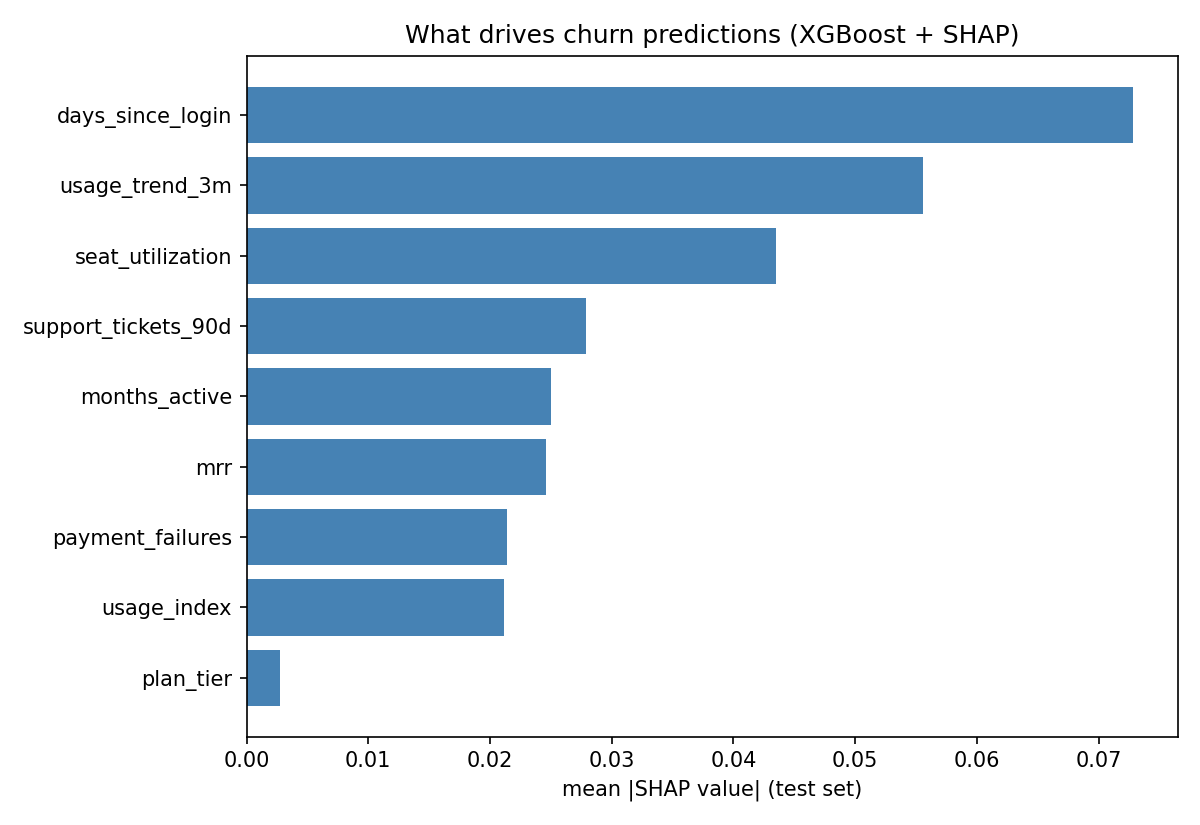
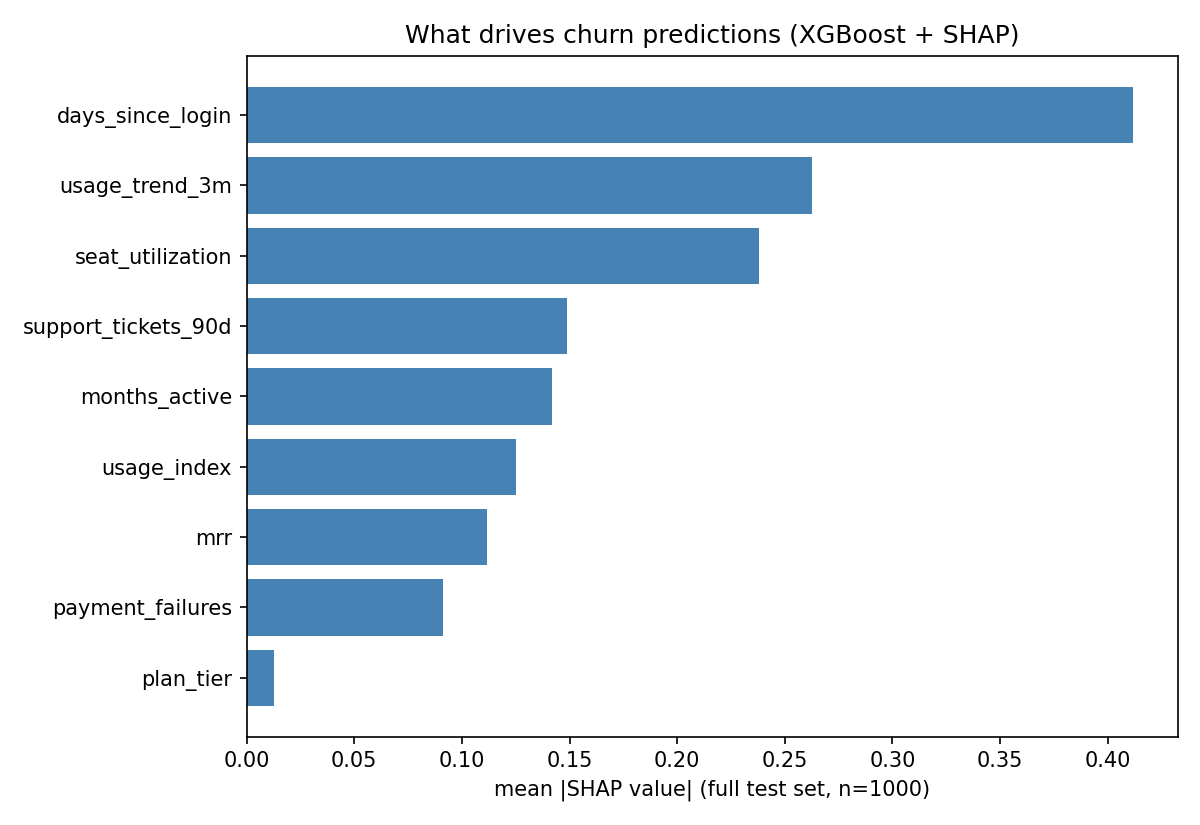
tune hyperparameters; shap over full test set

diff --git a/src/churn/model.py b/src/churn/model.py
@@ -2,9 +2,16 @@
 
 Usage:  python -m churn.model
 Output: artifacts/model.joblib (gitignored) + output/shap_summary.png
+
+Pipeline: small deterministic hyperparameter grid (validation AUC), then a final
+fit on all training rows, evaluated on the held-out test set. SHAP uses the
+native TreeExplainer over the FULL test set (see make_tree_explainer for the
+xgboost 3.x base_score workaround).
 """
 
+import json
 import os
+import re
 
 import matplotlib
 
@@ -14,6 +21,7 @@ import numpy as np
 import pandas as pd
 from sklearn.metrics import roc_auc_score, accuracy_score
 from sklearn.model_selection import train_test_split
+import xgboost as xgb
 from xgboost import XGBClassifier
 
 HERE = os.path.dirname(os.path.abspath(__file__))
@@ -25,6 +33,75 @@ def load_data():
     return pd.read_csv(path)
 
 
+class _FixedBooster(xgb.Booster):
+    """A Booster view that normalizes xgboost 3.x's base_score in the raw dump.
+
+    xgboost >= 3 serializes (possibly estimated) base_score into the model as a
+    stringified array - '[3.455E-1]' - and shap's XGBTreeModelLoader does a bare
+    float() on it, which crashes TreeExplainer. We rewrite that one field in
+    save_raw() to an equal-length plain scalar (UBJSON stores strings with an
+    explicit length, so the byte count must not change). If xgboost/shap fix
+    this upstream, the no-op path below kicks in automatically and this class
+    can be deleted.
+    """
+
+    def __new__(cls, wrapped):
+        obj = object.__new__(cls)
+        obj._wrapped = wrapped
+        cfg = json.loads(wrapped.save_config())
+        raw_bs = cfg["learner"]["learner_model_param"].get("base_score")
+        try:
+            float(raw_bs)
+            obj._fix = None  # already a plain scalar - nothing to do
+        except (TypeError, ValueError):
+            val = float(json.loads(raw_bs)[0])
+            fixed = f"{val:.12f}"[: len(raw_bs)]
+            assert len(fixed) == len(raw_bs) and re.fullmatch(r"[0-9.eE+-]+", fixed)
+            obj._fix = (raw_bs.encode(), fixed.encode())
+        return obj
+
+    def __init__(self, wrapped):  # skip Booster's C++ init; we delegate everything
+        pass
+
+    def save_raw(self, raw_format="ubj"):
+        raw = self._wrapped.save_raw(raw_format=raw_format)
+        if self._fix is not None:
+            old, new = self._fix
+            assert old in raw, "base_score string not found in raw dump"
+            raw = raw.replace(old, new, 1)
+        return raw
+
+    def __getattr__(self, name):
+        return getattr(self.__dict__["_wrapped"], name)
+
+
+def make_tree_explainer(model):
+    """shap.TreeExplainer for a fitted XGBClassifier (native, full-dataset ready)."""
+    import shap
+
+    return shap.TreeExplainer(_FixedBooster(model.get_booster()))
+
+
+def tune(X_train, y_train):
+    """Small deterministic grid search; best config by validation AUC."""
+    X_tr, X_val, y_tr, y_val = train_test_split(
+        X_train, y_train, test_size=0.2, random_state=7, stratify=y_train
+    )
+    best = None
+    for depth in (3, 4, 6):
+        for lr in (0.05, 0.1):
+            m = XGBClassifier(
+                n_estimators=400, learning_rate=lr, max_depth=depth,
+                subsample=0.8, colsample_bytree=0.8, random_state=7, n_jobs=4,
+            )
+            m.fit(X_tr, y_tr, eval_set=[(X_val, y_val)], verbose=False)
+            auc = roc_auc_score(y_val, m.predict_proba(X_val)[:, 1])
+            if best is None or auc > best[0]:
+                best = (auc, depth, lr)
+    print(f"tuned: max_depth={best[1]} learning_rate={best[2]} (val AUC {best[0]:.4f})")
+    return dict(max_depth=best[1], learning_rate=best[2])
+
+
 def main():
     from churn.synthesize import FEATURES
 
@@ -33,9 +110,10 @@ def main():
         df[FEATURES], df["churned"], test_size=0.2, random_state=7, stratify=df["churned"]
     )
 
+    params = tune(X_train, y_train)
     model = XGBClassifier(
-        n_estimators=300, learning_rate=0.05, max_depth=4,
-        subsample=0.8, colsample_bytree=0.8, random_state=7, n_jobs=4,
+        n_estimators=400, subsample=0.8, colsample_bytree=0.8,
+        random_state=7, n_jobs=4, **params,
     )
     model.fit(X_train, y_train)
 
@@ -44,19 +122,26 @@ def main():
     print(f"test accuracy (p>0.5): {accuracy_score(y_test, (p > 0.5).astype(int)):.4f}")
     print(f"churn rate in test set: {y_test.mean():.3f}")
 
-    # SHAP: which features drive the predictions?
-    # (function-based explainer on a test sample: xgboost 3.x stores base_score
-    # as a string, which trips up shap.TreeExplainer in some versions)
+    # SHAP over the FULL held-out set with the native TreeExplainer; if a future
+    # xgboost/shap combination breaks even that, fall back to a function-based
+    # explainer on a sample so the pipeline never hard-fails.
     import shap
 
-    sample = X_test.sample(200, random_state=7)
-    explainer = shap.Explainer(lambda x: model.predict_proba(x)[:, 1], sample)
     try:
+        explainer = make_tree_explainer(model)
+        sv = np.asarray(explainer.shap_values(X_test))
+        if sv.ndim == 3:
+            sv = sv[:, :, 1]
+        scope = "full test set"
+    except Exception as ex:
+        print(f"TreeExplainer unavailable ({ex.__class__.__name__}); using function-based fallback")
+        sample = X_test.sample(200, random_state=7)
+        explainer = shap.Explainer(lambda x: model.predict_proba(x)[:, 1], sample)
         sv = np.asarray(explainer(sample).values)      # shap >= 0.46
-    except AttributeError:
-        sv = np.asarray(explainer.shap_values(sample))  # older shap
-    if sv.ndim == 3:
-        sv = sv[:, :, 1]
+        if sv.ndim == 3:
+            sv = sv[:, :, 1]
+        scope = "200-row test sample"
+
     mean_abs = np.abs(sv).mean(axis=0)
     order = np.argsort(mean_abs)[::-1]
 
@@ -66,7 +151,7 @@ def main():
     ax.set_yticks(range(len(names)))
     ax.set_yticklabels(names)
     ax.invert_yaxis()
-    ax.set_xlabel("mean |SHAP value| (test set)")
+    ax.set_xlabel(f"mean |SHAP value| ({scope}, n={len(sv)})")
     ax.set_title("What drives churn predictions (XGBoost + SHAP)")
     fig.tight_layout()
 
